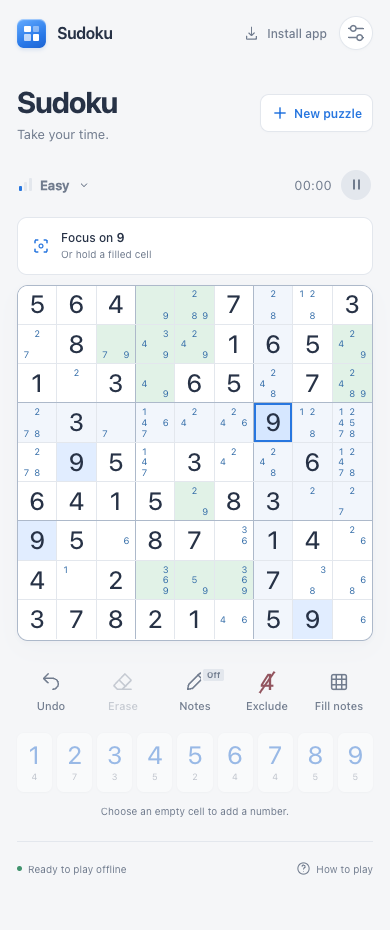
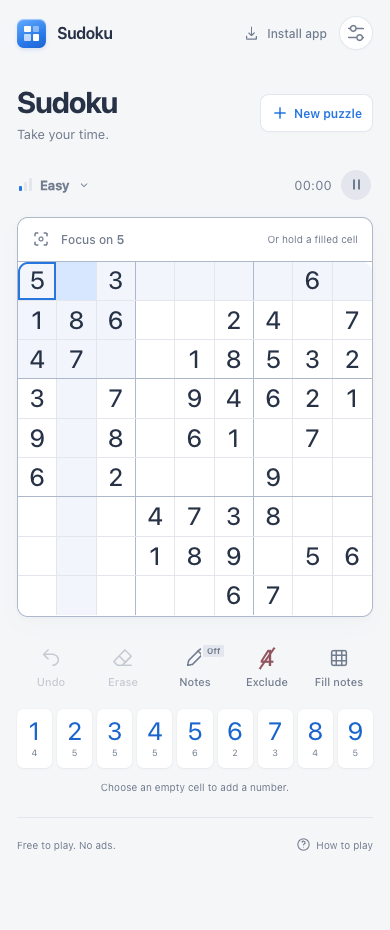
style(game): integrate focus controls into board toolbar

diff --git a/src/app/globals.css b/src/app/globals.css
@@ -135,15 +135,19 @@ h1 { font-size: 32px; font-weight: 720; letter-spacing: -1.2px; line-height: 1.1
 .tools { justify-content: space-between; gap: 4px; }
 .tool-button { min-width: 0; flex: 1; }
 
-.digit-focus-bar { height: 58px; margin-bottom: 10px; display: flex; align-items: center; justify-content: space-between; border: 1px solid var(--line); border-radius: 10px; background: var(--surface); }
-.digit-focus-bar[inert] { visibility: hidden; }
+.puzzle-panel { border-radius: 11px; box-shadow: var(--shadow); }
+.puzzle-panel .board-wrap { border-top-left-radius: 0; border-top-right-radius: 0; box-shadow: none; }
+.puzzle-panel .board-row:first-child .cell { border-top-left-radius: 0; border-top-right-radius: 0; }
+.digit-focus-bar { height: 44px; display: flex; align-items: center; justify-content: space-between; border: 1px solid var(--box-line); border-bottom: 0; border-radius: 11px 11px 0 0; background: var(--surface); }
+.digit-focus-bar[inert] > * { visibility: hidden; }
 .focus-button,.digit-focus-label { display: flex; align-items: center; gap: 11px; padding: 0 14px; font-size: 12px; font-weight: 500; color: var(--ink); }
 .focus-button { width: 100%; height: 100%; border-radius: inherit; text-align: left; }
 .focus-button:disabled { color: var(--secondary); }
 .focus-button:not(:disabled)>svg,.digit-focus-label>svg { color: var(--blue); }
 .focus-button strong,.digit-focus-label strong { font-weight: 650; }
-.focus-copy { display: flex; flex-direction: column; gap: 3px; }
+.focus-indicator { width: 14px; height: 14px; margin: 2px; border-radius: 50%; background: var(--blue); }
+.focus-copy { display: flex; flex: 1; align-items: center; justify-content: space-between; gap: 8px; }
 .focus-hint { color: var(--secondary); font-size: 10px; font-weight: 400; line-height: 13px; }
-.clear-focus-button { display: grid; place-items: center; flex-shrink: 0; width: 44px; height: 44px; margin-right: 4px; border-radius: 7px; color: var(--secondary); }
+.clear-focus-button { display: grid; place-items: center; flex-shrink: 0; width: 44px; height: 43px; margin-right: 0; border-radius: 7px; color: var(--secondary); }
 @media (hover: hover) { .focus-button:not(:disabled):hover,.clear-focus-button:hover { background: var(--peer); } }
 .notes .note-digit.note-focused { background: var(--blue-soft); color: var(--blue-strong); border-radius: 3px; font-weight: 750; box-shadow: inset 0 0 0 1px var(--blue); }

diff --git a/src/components/game.tsx b/src/components/game.tsx
@@ -216,9 +216,10 @@ export default function SudokuGame() {
         </div>}
       </div>
 
+      <div className="puzzle-panel">
       <div className="digit-focus-bar" role="group" aria-label="Digit focus" inert={paused || busy || complete || !game}>
         {focusedDigit !== null ? <>
-          <span className="digit-focus-label" role="status"><Icon name="focus" size={18}/><span>Focused on <strong>{focusedDigit}</strong></span></span>
+          <span className="digit-focus-label" role="status"><span className="focus-indicator" aria-hidden="true"/><span>Focus <strong>{focusedDigit}</strong></span></span>
           <button className="clear-focus-button" aria-label="Clear focus" title="Clear focus" onClick={() => { setFocusedDigit(null); board.current?.querySelector<HTMLButtonElement>(`[data-index="${selected}"]`)?.focus(); }}><Icon name="close" size={16}/></button>
         </> : <button className="focus-button" disabled={!selectedCellValue || batchNotes} onClick={() => setFocusedDigit(selectedCellValue)} aria-label={selectedCellValue ? `Focus on ${selectedCellValue}` : 'Focus on a number'} aria-describedby={selectedCellValue && !focusHoldLearned ? 'focus-hold-hint' : undefined}>
           <Icon name="focus" size={18}/><span className="focus-copy"><span>{selectedCellValue ? <>Focus on <strong>{selectedCellValue}</strong></> : 'Select a number to focus'}</span><span id="focus-hold-hint" className="focus-hint" hidden={!selectedCellValue || focusHoldLearned}>Or hold a filled cell</span></span>
@@ -249,6 +250,8 @@ export default function SudokuGame() {
         {(paused || busy || !game) && <div className="board-cover">
           {busy ? <><span className="spinner"/><h2>Getting your puzzle ready</h2></> : paused ? <><span className="pause-emblem"><Icon name="pause" size={28}/></span><h2>Take a break</h2><p>Your puzzle will be right here.</p><button className="primary-button" onClick={() => setPaused(false)}><Icon name="play" size={17}/>Resume puzzle</button></> : <><h2>Let’s try that again</h2><button className="primary-button" onClick={() => requestPuzzle(difficulty)}>Create puzzle</button></>}
         </div>}
+      </div>
+
       </div>
 
       <div className="progress-line" role="progressbar" aria-label="Cells filled" aria-valuemin={0} aria-valuemax={total} aria-valuenow={filled}><span style={{ transform: `scaleX(${filled/total})` }}/></div>

diff --git a/docs/investigations/2026-09-21-digit-focus.md b/docs/investigations/2026-09-21-digit-focus.md
@@ -41,3 +41,9 @@ The prototype forced Smart highlighting on and disabled saving. Neither behavior
 - `src/components/game.tsx`
 - `src/components/use-note-selection.ts`
 - `src/components/cell-notes.tsx`
+
+## Approved board toolbar (rendering B)
+
+Sean selected B from three generated directions. The 44px toolbar now joins the board outline; its hint sits alongside the action. Top board cells have square selection corners at the internal seam, while bottom cells retain rounded selection corners. Rendering-first review is now saved in repository and global Codex guidance.
+
+Verified button activation, filled-cell hold, clear and pause in Playwright. At 320px, 390px and 1100px the toolbar and board edges align with no gap or horizontal overflow. Light and dark screenshots inspected. Production screenshots at 390×930 have equal 17px board margins and no scrollbar. Lint, typecheck, production build and diff checks passed.
